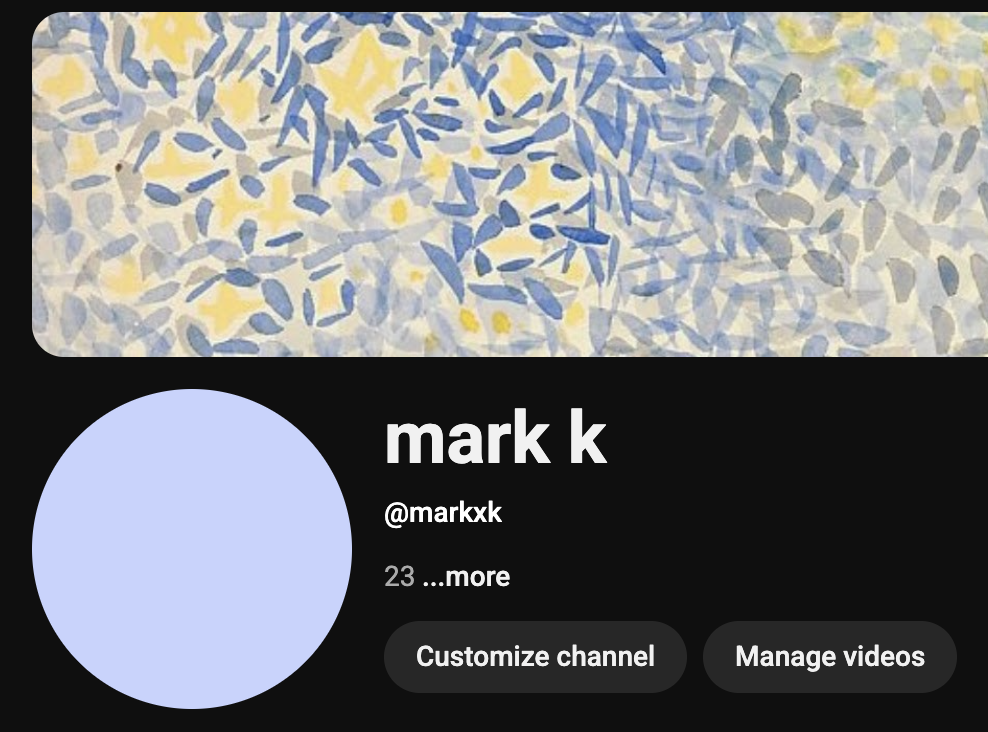
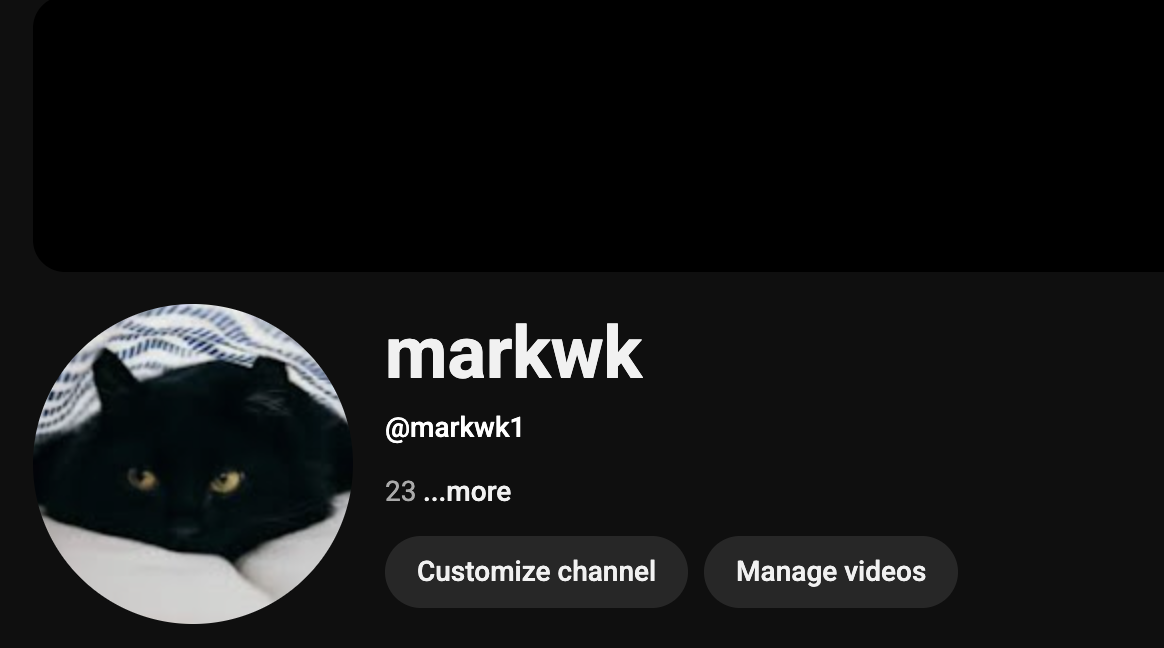
Add software projects page

diff --git a/styles.css b/styles.css
@@ -1,10 +1,10 @@
 :root {
-  --bg: hsl(223, 57%, 88%);
+  --bg: hsl(38, 100%, 91%);
   --liked-color: hsl(228, 100%, 86%);
   --accent: hsl(228, 100%, 68%);
   --fg: #212121;
-  --link: hsl(314, 58%, 35%);
-  --link-hover: hsl(314, 50%, 47%);
+  --link: hsl(0, 100%, 30%);
+  --link-hover: hsl(0, 100%, 50%);
   --muted: hsl(314, 68%, 11%);
   --container: 950px;
   --col-gap: 3rem;
@@ -37,6 +37,7 @@ header {
 nav {
   display: flex;
   justify-content: space-between;
+  gap: 1.5rem;
 }
 
 nav a {
@@ -46,6 +47,7 @@ nav a {
 .nav-block {
   display: flex;
   gap: 1.5rem;
+  flex-wrap: wrap;
 }
 
 #main-section-1 {
@@ -182,6 +184,130 @@ p { margin: 0; }
   margin-bottom: 8rem;
 }
 
+/* PROJECTS PAGE */
+.projects-hero {
+  padding-bottom: 4rem;
+}
+
+.project-intro {
+  max-width: 760px;
+  margin-top: 0.85rem;
+}
+
+.project-list {
+  display: flex;
+  flex-direction: column;
+  gap: 5rem;
+}
+
+.project-entry {
+  display: grid;
+  grid-template-columns: minmax(0, 1fr) minmax(320px, 0.95fr);
+  gap: 2rem;
+  align-items: start;
+}
+
+.project-entry h2 {
+  margin-bottom: 0.75rem;
+}
+
+.project-facts {
+  display: grid;
+  gap: 0.95rem;
+  margin: 1.25rem 0 0;
+}
+
+.project-facts div {
+  display: grid;
+  grid-template-columns: 7rem 1fr;
+  gap: 1rem;
+}
+
+.project-facts dt {
+  font-size: 0.78rem;
+  font-weight: 600;
+  text-transform: uppercase;
+}
+
+.project-facts dd {
+  margin: 0;
+  color: var(--muted);
+}
+
+.project-media {
+  display: flex;
+  min-height: 260px;
+  aspect-ratio: 4 / 3;
+  margin: 0;
+  overflow: hidden;
+  border: 1px solid var(--fg);
+  background: hsl(47, 100%, 90%);
+}
+
+.project-media img {
+  width: 100%;
+  height: 100%;
+  object-fit: cover;
+}
+
+.project-placeholder {
+  flex-direction: column;
+  justify-content: space-between;
+  padding: 1.25rem;
+}
+
+.mock-window {
+  display: flex;
+  gap: 0.45rem;
+}
+
+.mock-window span {
+  width: 0.8rem;
+  height: 0.8rem;
+  border: 1px solid var(--fg);
+  border-radius: 50%;
+}
+
+.mock-board {
+  display: grid;
+  grid-template-columns: repeat(4, minmax(0, 1fr));
+  grid-auto-rows: minmax(42px, 1fr);
+  gap: 0.5rem;
+}
+
+.mock-board span,
+.mock-board strong {
+  display: flex;
+  align-items: center;
+  justify-content: center;
+  min-width: 0;
+  border: 1px solid var(--fg);
+  background: hsl(160, 45%, 78%);
+  font-size: 0.8rem;
+}
+
+.mock-board strong {
+  background: hsl(45, 95%, 78%);
+}
+
+.terminal-placeholder {
+  background: hsl(228, 100%, 92%);
+}
+
+.terminal-placeholder pre {
+  width: 100%;
+  margin: 1.5rem 0 0;
+  overflow: auto;
+  color: var(--fg);
+  font: 0.95rem/1.6 ui-monospace, SFMono-Regular, Menlo, Consolas, monospace;
+  white-space: pre-wrap;
+}
+
+.projects-footer {
+  max-width: 640px;
+  margin-left: auto;
+}
+
 /* MEDIA QUERIES */
 @media (max-width: 900px){
   header {
@@ -200,8 +326,26 @@ p { margin: 0; }
     gap: 1rem;
   }
 
+  nav {
+    flex-direction: column;
+  }
+
   #section-1-pic {
     margin: 0;
+  }
+
+  .project-list {
+    gap: 3.5rem;
+  }
+
+  .project-entry {
+    grid-template-columns: 1fr;
+    gap: 1.25rem;
+  }
+
+  .project-facts div {
+    grid-template-columns: 1fr;
+    gap: 0.2rem;
   }
 
   .footer {

diff --git a/projects/index.html b/projects/index.html
@@ -1,0 +1,134 @@
+<!DOCTYPE html>
+<html lang="en">
+  <head>
+    <meta charset="utf-8" />
+    <meta name="viewport" content="width=device-width,initial-scale=1" />
+    <title>software projects | mark kravchuk</title>
+    <!-- Icon -->
+    <link rel="icon" href="../favicon-32x32.png" sizes="32x32" type="image/png">
+    <link rel="icon" href="../favicon-16x16.png" sizes="16x16" type="image/png">
+    <link rel="apple-touch-icon" href="../apple-touch-icon.png">
+
+    <!-- Inter font -->
+    <link rel="preconnect" href="https://fonts.googleapis.com">
+    <link rel="preconnect" href="https://fonts.gstatic.com" crossorigin>
+    <link href="https://fonts.googleapis.com/css2?family=Inter+Tight:ital,wght@0,100..900;1,100..900&amp;display=swap" rel="stylesheet">
+    <link rel="stylesheet" href="../styles.css">
+  </head>
+
+  <body class="wrap projects-page">
+    <!-- HEADER -->
+    <header class="xl underline">
+      <nav>
+        <div class="nav-block">
+          <a href="/">Mark Kravchuk</a>
+          <a href="/projects">Software projects</a>
+          <a href="/websites">Website building</a>
+        </div>
+        <a href="mailto:[email redacted]">[email redacted]</a>
+      </nav>
+      <!-- SEASON BAND -->
+      <div class="season-band spring" aria-hidden="true">
+        <span></span><span></span><span></span><span></span><span></span>
+        <span></span><span></span><span></span><span></span><span></span>
+        <span></span><span></span><span></span><span></span><span></span><span></span><span></span>
+        <span></span>
+      </div>
+    </header>
+
+    <main>
+      <section class="projects-hero" aria-labelledby="projects-intro-title">
+        <h1 id="projects-intro-title" class="xxl">software projects</h1>
+      </section>
+
+      <section class="project-list" aria-label="Project writeups">
+        <article class="project-entry">
+          <div class="project-copy">
+            <h2 class="xl">Helping build an early-stage app</h2>
+            <p class="muted">
+              I have been helping a startup get its product off the ground, which has meant working through ambiguous requirements, building user-facing pieces, and making the app more usable as real needs become clearer.
+            </p>
+            <dl class="project-facts">
+              <div>
+                <dt>Focus</dt>
+                <dd>Product engineering, UI work, iteration</dd>
+              </div>
+              <div>
+                <dt>What I learned</dt>
+                <dd>Good software is not just getting code to run. I learned how much the small product decisions matter: what to show first, what to make obvious, and how to keep moving when the requirements are still changing.</dd>
+              </div>
+            </dl>
+          </div>
+          <figure class="project-media">
+            <img src="../images/shirts.png" alt="Screenshot from startup app work">
+          </figure>
+        </article>
+
+        <article class="project-entry">
+          <div class="project-copy">
+            <h2 class="xl">Monopoly game project</h2>
+            <p class="muted">
+              I am building a Monopoly-style project because it forces a lot of useful engineering problems into one place: turns, rules, money, ownership, player state, and edge cases that have to stay consistent.
+            </p>
+            <dl class="project-facts">
+              <div>
+                <dt>Focus</dt>
+                <dd>Game state, rule modeling, UI flow</dd>
+              </div>
+              <div>
+                <dt>What I learned</dt>
+                <dd>The biggest lesson has been separating the rules from the screen. When the game logic is its own thing, it becomes much easier to test, debug, and trust the UI that sits on top of it.</dd>
+              </div>
+            </dl>
+          </div>
+          <figure class="project-media project-placeholder" aria-label="Screenshot placeholder for Monopoly game project">
+            <div class="mock-window">
+              <span></span><span></span><span></span>
+            </div>
+            <div class="mock-board" aria-hidden="true">
+              <span></span><span></span><span></span><span></span>
+              <span></span><strong>GO</strong><span></span><span></span>
+              <span></span><span></span><span></span><span></span>
+            </div>
+          </figure>
+        </article>
+
+        <article class="project-entry">
+          <div class="project-copy">
+            <h2 class="xl">C++ practice and fundamentals</h2>
+            <p class="muted">
+              I have been practicing C++ to sharpen the lower-level parts of my programming: memory, data structures, performance, debugging, and writing code that is more explicit about what it owns.
+            </p>
+            <dl class="project-facts">
+              <div>
+                <dt>Focus</dt>
+                <dd>Core language practice, problem solving, debugging</dd>
+              </div>
+              <div>
+                <dt>What I learned</dt>
+                <dd>C++ has made me more careful in a good way. It pushes me to think about lifetime, ownership, and program structure instead of relying on the language to hide those details.</dd>
+              </div>
+            </dl>
+          </div>
+          <figure class="project-media project-placeholder terminal-placeholder" aria-label="Screenshot placeholder for C++ practice">
+            <div class="mock-window">
+              <span></span><span></span><span></span>
+            </div>
+            <pre aria-hidden="true"><code>$ g++ main.cpp
+$ ./practice
+tests passing: 12/12
+runtime: 0.04s</code></pre>
+          </figure>
+        </article>
+      </section>
+    </main>
+
+    <footer class="footer projects-footer">
+      <h2 class="lg">more details</h2>
+      <p>
+        I can talk through the code, tradeoffs, and what I would improve next.
+        <a href="mailto:[email redacted]">[email redacted]</a>
+      </p>
+    </footer>
+  </body>
+</html>

diff --git a/index.html b/index.html
@@ -12,7 +12,7 @@
   <!-- Inter font -->
   <link rel="preconnect" href="https://fonts.googleapis.com">
   <link rel="preconnect" href="https://fonts.gstatic.com" crossorigin>
-  <link href="https://fonts.googleapis.com/css2?family=Inter+Tight:ital,wght@0,100..900;1,100..900&display=swap" rel="stylesheet">
+  <link href="https://fonts.googleapis.com/css2?family=Inter+Tight:ital,wght@0,100..900;1,100..900&amp;display=swap" rel="stylesheet">
   <link rel="stylesheet" href="styles.css">
 </head>
 
@@ -22,6 +22,7 @@
     <nav>
       <div class="nav-block">
         <a href="/">Mark Kravchuk</a>
+        <a href="/projects">Software projects</a>
         <a href="/websites">Website building</a>
       </div>
       <a href="mailto:[email redacted]">[email redacted]</a>
@@ -40,7 +41,7 @@
     <section id="main-section-1" aria-labelledby="intro">
       <div>
         <h1 id="intro-title" class="xxl">hi, im mark</h1>
-        <p class="block xxl">i'm a CS grad spending most of my time coding,<br> playing tennis, piano, trying to work on cars<br>, and some youtube stuff &#x263A</p>
+        <p class="block xxl">i'm a CS grad spending most of my time coding,<br> playing tennis, piano, trying to work on cars<br>, and some youtube stuff &#x263A;</p>
       </div>
       <div>
         <img id="section-1-pic" src="images/jazz-saxophone.gif" alt="snoopy flying">
@@ -56,19 +57,19 @@
           <figure><img class="gallery-img" src="images/shirts.png" alt="Startup app screenshot"></figure>
         </div>
         <div>
-          <div class="xl">MIATA &#x2792&#x278C</div>
+          <div class="xl">MIATA &#x2792;&#x278C;</div>
           <p class="muted space">im trying to learn car stuff with my brother so we bought a miata to work on and flip. i want to get my own clean miata to drive around in though</p>
           <figure><img class="gallery-img" src="images/miata.jpg" alt="picture of 93 miata"></figure>
         </div>
         <div>
-          <div class="xl">PIANO &#x266A</div>
+          <div class="xl">PIANO &#x266A;</div>
           <p class="muted space">most of my favorite songs are on piano so i wanna get good enough to play them. im learning music theory so that im not just reading notes one by one while i learn. i am currently learning fullmoon lullaby</p>
           <a href="https://youtu.be/JXqCtA1goR0?si=oFNwAgzkIoYCIn8W"><figure><img class="gallery-img" src="images/fullmoonlullaby.jpeg" alt="piano screenshot"></figure></a>
         </div>
         <div>
           <div class="xl ">VIDEOS</div>
           <p class="muted space">i think it would be fun to make youtube videos about stuff im doing in life because there are a bunch of different things I want to do. I think it would be cool to share stuff im working on + vlogging stuff + my thoughts about things</p>
-          <a href="https://youtube.com/@markxk?si=ErZ-CFimW73sbEdX"><figure><img class="gallery-img" src="images/youtube.png" alt="youtube channel screenshot"></figure></a>
+          <a href="https://youtube.com/@markwk1?si=MSCJQ5VjGEvIf60l"><figure><img class="gallery-img" src="images/youtube.png" alt="youtube channel screenshot"></figure></a>
         </div>
       </div>
     </section>

diff --git a/websites/index.html b/websites/index.html
@@ -12,7 +12,7 @@
     <!-- Inter font -->
     <link rel="preconnect" href="https://fonts.googleapis.com">
     <link rel="preconnect" href="https://fonts.gstatic.com" crossorigin>
-    <link href="https://fonts.googleapis.com/css2?family=Inter+Tight:ital,wght@0,100..900;1,100..900&display=swap" rel="stylesheet">
+    <link href="https://fonts.googleapis.com/css2?family=Inter+Tight:ital,wght@0,100..900;1,100..900&amp;display=swap" rel="stylesheet">
     <link rel="stylesheet" href="../styles.css">
   </head>
 
@@ -22,6 +22,7 @@
       <nav>
         <div class="nav-block">
           <a href="/">Mark Kravchuk</a>
+          <a href="/projects">Software projects</a>
           <a href="/websites">Website building</a>
         </div>
         <a href="mailto:[email redacted]">[email redacted]</a>